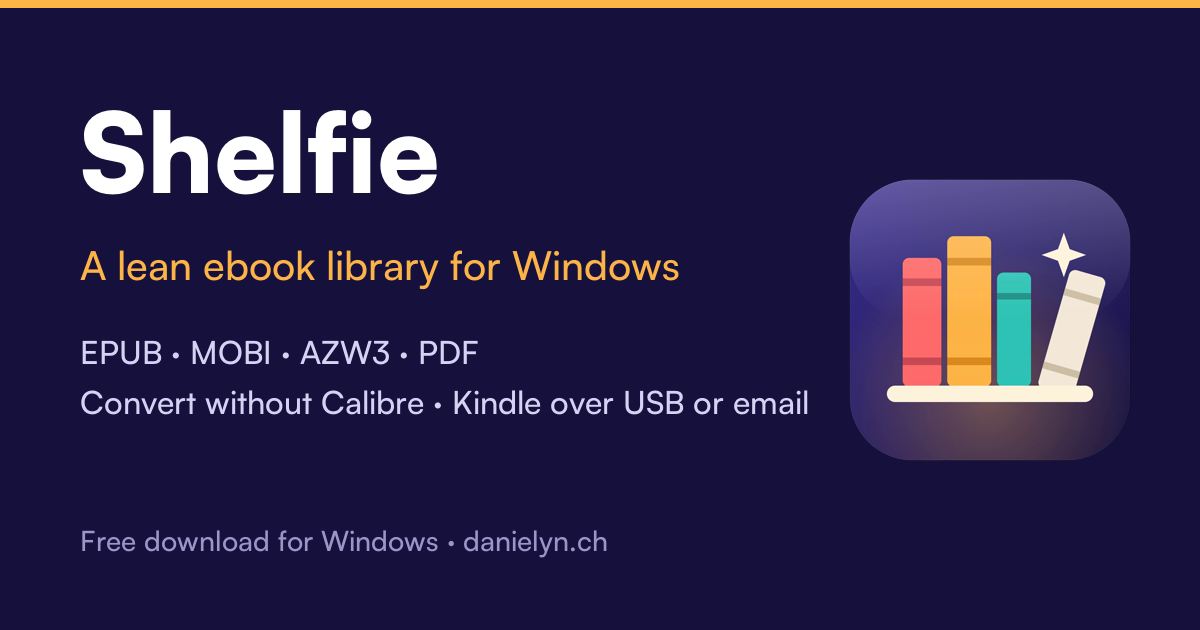
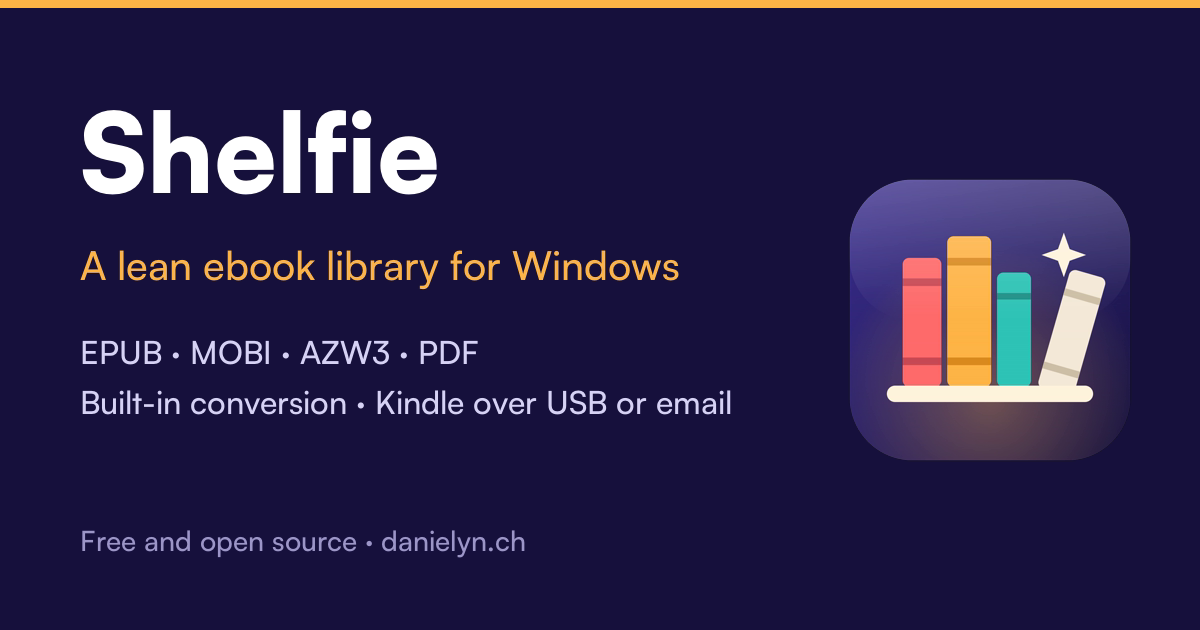
Real app screenshots, LinkedIn, open-source Shelfie copy, no Calibre mentions
- Mise and Shelfie use real screenshots (planner, recipes, shopping,
  household; library, detail panel, Send to Kindle) instead of mockups,
  also listed as SoftwareApplication screenshots. The household invite
  code and personal Kindle address are redacted in the images.
- LinkedIn in footer, Person sameAs and llms.txt
- Shelfie described as open source (MIT)
- Shelfie copy and OG image no longer mention Calibre

Changed region(s): [[0.0617, 0.6032, 0.6783, 0.6635], [0.1233, 0.8444, 0.5242, 0.8746]]

diff --git a/data/projects.js b/data/projects.js
@@ -28,6 +28,13 @@ export const products = {
             "Households share everything live via a 6-character invite code",
         ],
         stack: ["Nuxt 3 (SSR + PWA)", "Firebase Auth", "Firestore", "Pinia", "Tailwind CSS"],
+        hero: { src: "/img/work/mise-planner.webp", width: 1110, height: 615, alt: "Mise weekly planner for 19 to 25 October with lunch and dinner recipes for every day, a Suggest week button and Generate Shopping List" },
+        screenshots: [
+            { src: "/img/work/mise-recipes.webp", width: 1144, height: 897, alt: "Mise recipe library with search, tag filters, Import URL and recipe cards showing prep time, cook time and source site" },
+            { src: "/img/work/mise-shopping.webp", width: 1127, height: 600, alt: "Mise shopping list for the week grouped by category, with each item linked to its recipe and a Send to Coop button" },
+            // Invite code replaced with the placeholder code from the betterplan.ch landing page.
+            { src: "/img/work/mise-household.webp", width: 1105, height: 836, alt: "Mise household screen with a 6-character invite code and steps for inviting housemates" },
+        ],
         links: [
             { label: "Open betterplan.ch", href: "https://betterplan.ch", primary: true },
             { label: "Source on GitHub", href: "https://github.com/dyarzanavarro/Preppal_Mise" },
@@ -78,16 +85,16 @@ export const products = {
         tagline: "A lean ebook library for Windows.",
         seoTitle: "Shelfie: free ebook library for Windows, MOBI/AZW3 to EPUB and Kindle transfer",
         seoDescription:
-            "Shelfie is a free Windows ebook manager: import EPUB, MOBI, AZW3, PDF or a Calibre library, convert MOBI/AZW3 to EPUB without Calibre and send books to a Kindle.",
+            "Shelfie is a free, open-source Windows ebook manager: import EPUB, MOBI, AZW3 and PDF, convert MOBI/AZW3 to EPUB and EPUB to AZW3, and send books to a Kindle.",
         ogImage: "/og/shelfie.png",
         url: SHELFIE_DOWNLOAD,
         category: "UtilitiesApplication",
         os: "Windows 10, Windows 11",
         summary:
-            "Import EPUB, MOBI, AZW3 and PDF files or whole Calibre libraries, convert between formats and get books onto your Kindle over USB or email. No Calibre required.",
+            "Import EPUB, MOBI, AZW3 and PDF files or whole folders, convert between formats and get books onto your Kindle over USB or email. Nothing else to install.",
         status: `v${SHELFIE_VERSION}`,
         year: "2026",
-        role: "Free, source on GitHub: design and code",
+        role: "Open source (MIT): design and code",
         accent: "shelfie",
         highlights: [
             "MOBI/AZW3 to EPUB and EPUB to AZW3, entirely in TypeScript",
@@ -96,6 +103,12 @@ export const products = {
             "Books grouped by author in series order, with bulk actions",
         ],
         stack: ["Electron", "React", "TypeScript", "SQLite"],
+        // Real app screenshots. The Kindle address in shelfie-send is redacted.
+        hero: { src: "/img/work/shelfie-library.webp", width: 1258, height: 700, alt: "Shelfie library window showing a grid of book covers with search, sort, Kindle settings and Add books controls" },
+        screenshots: [
+            { src: "/img/work/shelfie-detail.webp", width: 319, height: 712, alt: "Shelfie book detail panel with cover, format and size, Send to Kindle and Convert to EPUB buttons, and metadata" },
+            { src: "/img/work/shelfie-send.webp", width: 524, height: 646, alt: "Shelfie Send to Kindle settings dialog with Kindle email, approved sender and SMTP settings" },
+        ],
         links: [
             { label: "Download for Windows", href: SHELFIE_DOWNLOAD, primary: true, download: true },
             { label: "Source on GitHub", href: "https://github.com/dyarzanavarro/shelfie" },
@@ -103,26 +116,26 @@ export const products = {
         sections: [
             {
                 heading: "Why I built it",
-                body: "Calibre can do everything, which is exactly the problem when all you want is a tidy library and books on your Kindle. Shelfie does the handful of things I actually need, quickly, in an interface that stays out of the way.",
+                body: "All I wanted was a tidy library and an easy way to get books onto my Kindle. Shelfie does that handful of things quickly, in an interface that stays out of the way.",
             },
             {
                 heading: "What it does",
-                body: "Drop in EPUB, MOBI, AZW3 or PDF files, or point it at an existing Calibre library to import everything at once. Books are grouped by author and ordered by series, and you can select several to convert, send or delete together.",
+                body: "Drop in EPUB, MOBI, AZW3 or PDF files, or add a whole folder to import everything at once. Books are grouped by author and ordered by series, and you can select several to convert, send or delete together.",
             },
             {
-                heading: "No Calibre inside",
+                heading: "Conversion built in",
                 body: "Format conversion is written from scratch in TypeScript: MOBI and AZW3 become EPUB for reading anywhere, and EPUB becomes AZW3 for the Kindle. Copying over USB also writes the cover thumbnails the Kindle expects, so your library doesn't turn into grey placeholders.",
             },
         ],
         install: [
             "Download Shelfie-Setup.exe (Windows 10 or 11).",
             "The installer isn't code-signed yet, so Windows SmartScreen may warn you. Click “More info”, then “Run anyway”.",
-            "Shelfie installs and opens. Drag books in, or import a whole Calibre library.",
+            "Shelfie installs and opens. Click Add books, or Add folder to import a whole folder at once.",
         ],
         faq: [
             {
-                q: "Does Shelfie need Calibre installed?",
-                a: "No. Shelfie converts MOBI and AZW3 to EPUB, and EPUB to AZW3, with its own TypeScript code. It can import an existing Calibre library, but Calibre itself is not required.",
+                q: "Does Shelfie need any other software to convert ebooks?",
+                a: "No. Shelfie converts MOBI and AZW3 to EPUB, and EPUB to AZW3, with its own built-in TypeScript code, so there is nothing else to install.",
             },
             {
                 q: "Which ebook formats does Shelfie support?",
@@ -137,8 +150,8 @@ export const products = {
                 a: "The installer is not code-signed yet, so Windows SmartScreen shows a warning. Click “More info”, then “Run anyway” to install it.",
             },
             {
-                q: "Is Shelfie free? Does it run on macOS?",
-                a: "Shelfie is free and its source code is on GitHub. It currently runs on Windows 10 and 11 only.",
+                q: "Is Shelfie free and open source? Does it run on macOS?",
+                a: "Yes, Shelfie is free and open source under the MIT license, with the code on GitHub. It currently runs on Windows 10 and 11 only.",
             },
         ],
     },

diff --git a/pages/projects/[slug].vue b/pages/projects/[slug].vue
@@ -31,6 +31,7 @@ if (product) {
     url: slug === "mise" ? product.url : pageUrl,
     ...(slug === "shelfie" ? { downloadUrl: SHELFIE_DOWNLOAD, softwareVersion: SHELFIE_VERSION, installUrl: SHELFIE_DOWNLOAD } : {}),
     image: absoluteUrl(product.ogImage),
+    screenshot: [product.hero, ...(product.screenshots || [])].map((s) => absoluteUrl(s.src)),
     offers: { "@type": "Offer", price: "0", priceCurrency: "CHF" },
     author: { "@id": PERSON_ID },
     sameAs: product.links.filter((l) => l.href.includes("github.com")).map((l) => l.href),
@@ -96,9 +97,24 @@ usePageSeo({
               </a>
             </div>
           </div>
-          <MisePlannerMock v-if="isMise" />
-          <ShelfieLibraryMock v-else />
+          <AppScreenshot :shot="product.hero" eager />
         </header>
+
+        <section v-if="product.screenshots?.length" class="mt-12" aria-label="Screenshots">
+          <div class="grid gap-4 sm:grid-cols-2 lg:grid-cols-3 items-start">
+            <a
+              v-for="shot in product.screenshots"
+              :key="shot.src"
+              :href="shot.src"
+              target="_blank"
+              rel="noopener"
+              class="block lift-hover rounded-2xl"
+              :aria-label="`Open full-size screenshot: ${shot.alt}`"
+            >
+              <AppScreenshot :shot="shot" />
+            </a>
+          </div>
+        </section>
 
         <div class="mt-14 grid gap-10 lg:grid-cols-[1.6fr,1fr]">
           <div class="grid gap-8">

diff --git a/components/Footer.vue b/components/Footer.vue
@@ -14,6 +14,7 @@
         <nav aria-label="Footer" class="grid grid-cols-2 gap-x-6 gap-y-2 text-[0.9375rem] md:justify-self-end">
           <NuxtLink class="text-muted hover:text-ink py-1" to="/#projects">Projects</NuxtLink>
           <a class="text-muted hover:text-ink py-1" href="https://github.com/dyarzanavarro" rel="me">GitHub</a>
+          <a class="text-muted hover:text-ink py-1" href="https://ch.linkedin.com/in/dyarzanavarro" rel="me">LinkedIn</a>
           <NuxtLink class="text-muted hover:text-ink py-1" to="/work">Client work</NuxtLink>
           <a class="text-muted hover:text-ink py-1" href="https://betterplan.ch">Mise</a>
           <NuxtLink class="text-muted hover:text-ink py-1" to="/process">Process</NuxtLink>

diff --git a/server/routes/llms.txt.js b/server/routes/llms.txt.js
@@ -1,5 +1,5 @@
 import { products, work, SHELFIE_DOWNLOAD, SHELFIE_VERSION } from "../../data/projects.js";
-import { AUTHOR, GITHUB_URL, SITE_DESCRIPTION, absoluteUrl } from "../../utils/site.js";
+import { AUTHOR, GITHUB_URL, LINKEDIN_URL, SITE_DESCRIPTION, absoluteUrl } from "../../utils/site.js";
 
 // llms.txt (https://llmstxt.org): a plain-language summary for AI assistants and answer engines.
 export default defineEventHandler((event) => {
@@ -37,6 +37,7 @@ ${workLines.join("\n")}
 
 - [How I work](${absoluteUrl("/process")}): product discovery, structured design and delivery with engineers
 - [GitHub](${GITHUB_URL})
+- [LinkedIn](${LINKEDIN_URL})
 - Contact: danielyarza1@gmail.com
 `;
 

diff --git a/utils/site.js b/utils/site.js
@@ -7,6 +7,7 @@ export const SITE_DESCRIPTION =
     "Daniel Yarza Navarro is a product and UX lead in Zurich and the maker of Mise, a household meal planner, and Shelfie, an ebook library for Windows.";
 export const DEFAULT_OG_IMAGE = "/og/home.png";
 export const GITHUB_URL = "https://github.com/dyarzanavarro";
+export const LINKEDIN_URL = "https://ch.linkedin.com/in/dyarzanavarro";
 
 export const absoluteUrl = (path = "/") => {
     if (path === "/" || path === "") return `${SITE_URL}/`;
@@ -37,7 +38,7 @@ export const personSchema = {
         "TypeScript",
         "Electron",
     ],
-    sameAs: [GITHUB_URL],
+    sameAs: [GITHUB_URL, LINKEDIN_URL],
 };
 
 export const websiteSchema = {

diff --git a/pages/index.vue b/pages/index.vue
@@ -23,7 +23,7 @@ usePageSeo({
         </h1>
         <p class="fade-up mt-6 text-lg sm:text-xl text-muted max-w-2xl" style="animation-delay: 120ms">
           Product and UX lead for Swiss e-commerce. Lately: Mise, a meal planner for the whole
-          household, and Shelfie, a free ebook library for Windows.
+          household, and Shelfie, an open-source ebook library for Windows.
         </p>
         <div class="fade-up mt-8 flex flex-wrap gap-3" style="animation-delay: 180ms">
           <NuxtLink to="/#projects" class="btn btn-primary">See what I'm building</NuxtLink>

diff --git a/components/AppScreenshot.vue b/components/AppScreenshot.vue
@@ -1,0 +1,20 @@
+<script setup>
+defineProps({
+  shot: { type: Object, required: true },
+  eager: { type: Boolean, default: false },
+});
+</script>
+
+<template>
+  <figure class="rounded-2xl overflow-hidden bg-white shadow-xl ring-1 ring-black/10 dark:ring-white/10">
+    <img
+      :src="shot.src"
+      :alt="shot.alt"
+      :width="shot.width"
+      :height="shot.height"
+      :loading="eager ? 'eager' : 'lazy'"
+      decoding="async"
+      class="block w-full h-auto"
+    />
+  </figure>
+</template>

diff --git a/components/ProductCard.vue b/components/ProductCard.vue
@@ -89,8 +89,7 @@ const isMise = props.product.accent === "mise";
     </div>
 
     <div class="relative" :class="{ 'lg:order-1': reverse }">
-      <MisePlannerMock v-if="isMise" />
-      <ShelfieLibraryMock v-else />
+      <AppScreenshot :shot="product.hero" />
     </div>
   </article>
 </template>
